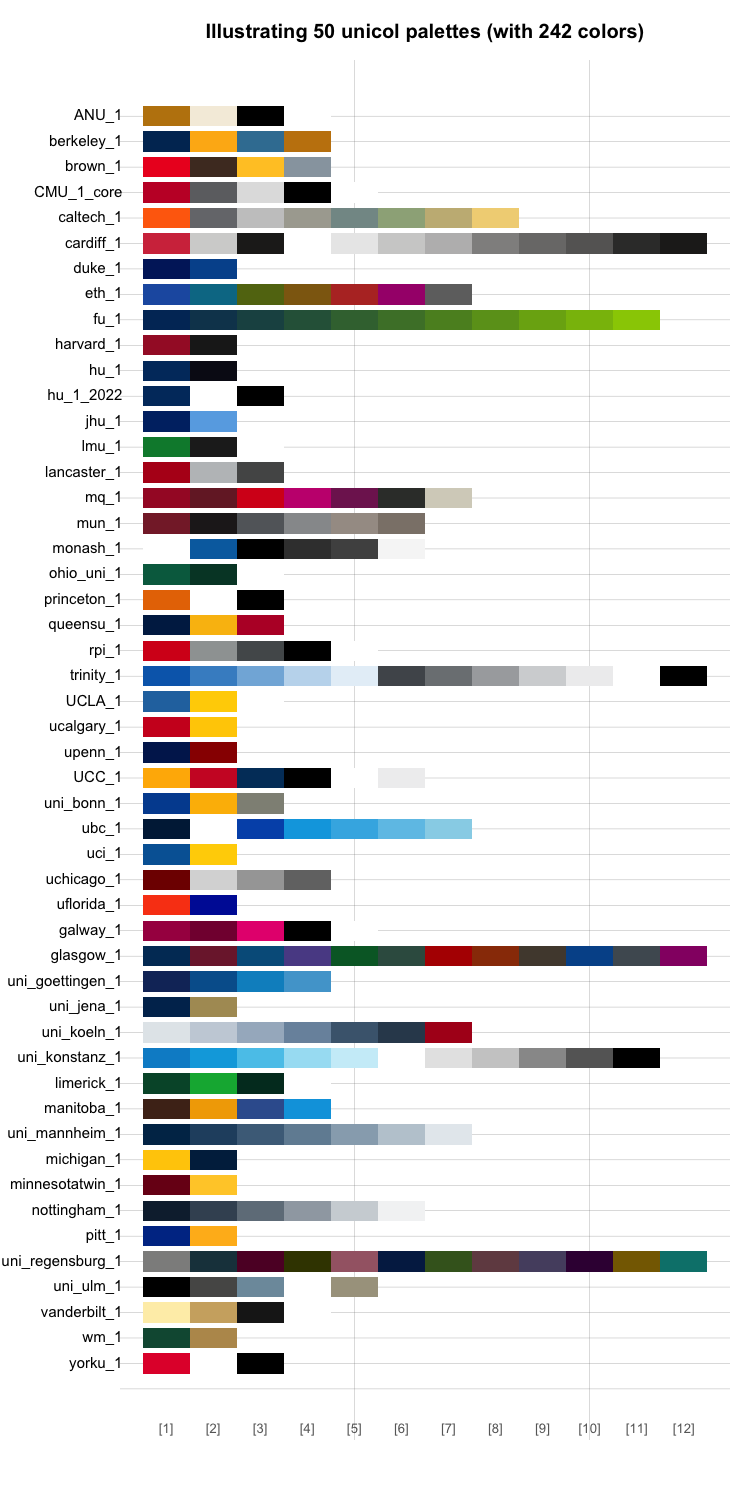
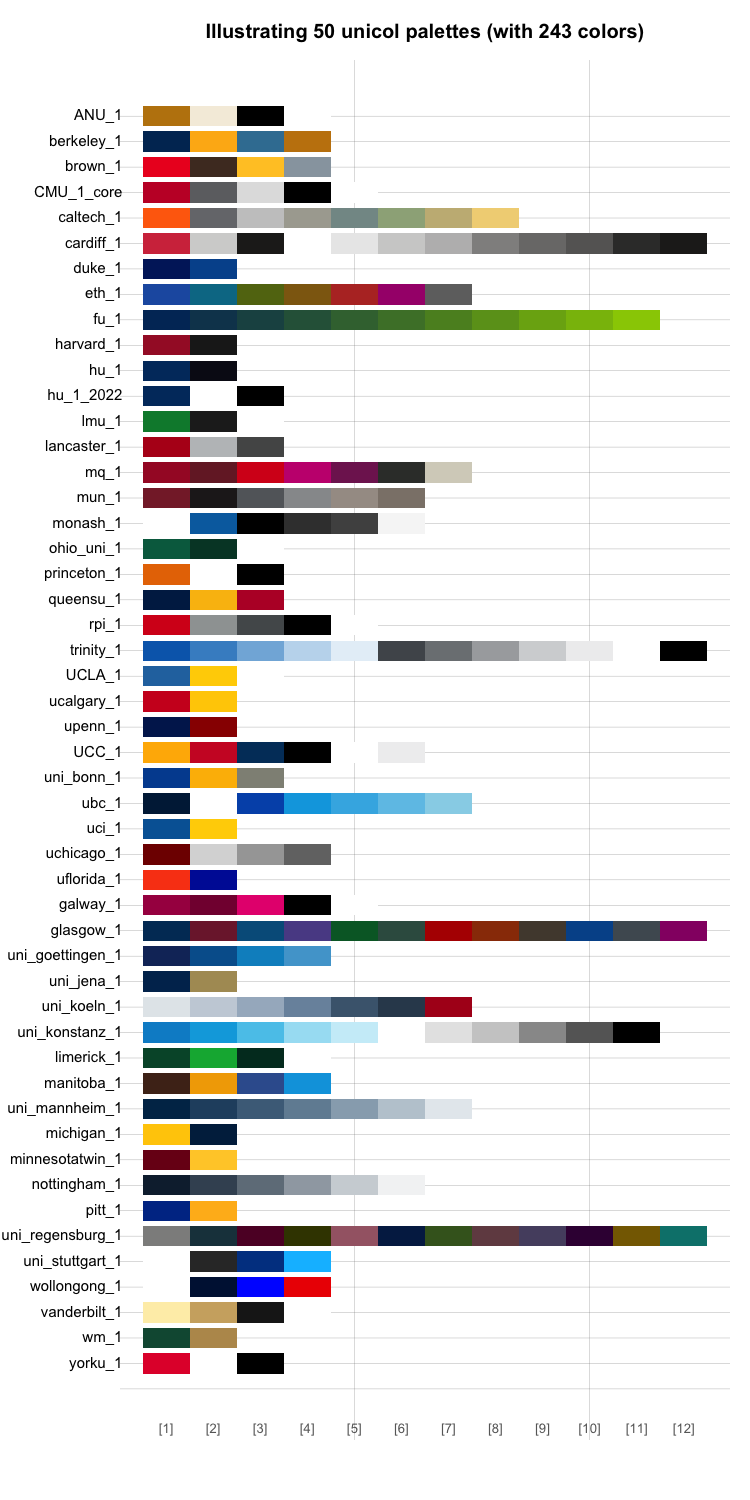
update README

Changed region(s): [[0.184, 0.276, 0.9507, 0.8893], [0.0, 0.276, 0.1533, 0.8587], [0.8587, 0.4293, 0.9507, 0.46]]

diff --git a/README.md b/README.md
@@ -21,7 +21,7 @@ status](https://www.r-pkg.org/badges/version/unicol)](https://CRAN.R-project.org
 <!-- [![DOI](https://zenodo.org/badge/DOI/10.5281/zenodo.8252106.svg)](https://doi.org/10.5281/zenodo.8252106) -->
 <!-- ALL badges end. -->
 
-# unicol 0.2.0.9001 <img src = "man/figures/logo.png" align = "right" alt = "unicol::" width = "160px" alt="" />
+# unicol 0.2.0.9002 <img src = "man/figures/logo.png" align = "right" alt = "unicol::" width = "160px" alt="" />
 
 <!-- unicol pkg logo and link: -->
 <!-- <a href = "https://CRAN.R-project.org/package=unicol"> -->
@@ -85,8 +85,8 @@ library(unikn)   # for color functions
 
 ## Contents
 
-The **unicol** package currently provides **236 color palettes** from
-**102 institutions**.
+The **unicol** package currently provides **239 color palettes** from
+**103 institutions**.
 
 <!-- **Table\ 1** provides an overview of all color palettes:  -->
 
@@ -99,18 +99,18 @@ an overview of included color palettes and institutions.)
 
 ### Examples of color palettes
 
-<!-- The **unicol** package currently contains **236\ color palettes** from **102\ institutions**.  -->
+<!-- The **unicol** package currently contains **239\ color palettes** from **103\ institutions**.  -->
 <!-- Example 1: Random pals (from vignette color_pals.Rmd): -->
 <!-- Show as a table: -->
 <!-- Show as a figure: -->
 
-**Figure 1** illustrates 50 random color palettes (with 242 colors):
+**Figure 1** illustrates 50 random color palettes (with 243 colors):
 
 <div class="figure" style="text-align: center">
 
-<img src="man/figures/README-unicol-pals-example-1-figure-1.png" alt="Figure 1: A sample of 50 unicol palettes (containing 242 colors)." width="600px" />
+<img src="man/figures/README-unicol-pals-example-1-figure-1.png" alt="Figure 1: A sample of 50 unicol palettes (containing 243 colors)." width="600px" />
 <p class="caption">
-Figure 1: A sample of 50 unicol palettes (containing 242 colors).
+Figure 1: A sample of 50 unicol palettes (containing 243 colors).
 </p>
 
 </div>
@@ -324,6 +324,6 @@ creators.
 
 <!-- Footer: -->
 
-\[File `README.Rmd` updated on 2023-09-15.\]
+\[File `README.Rmd` updated on 2023-09-19.\]
 
 <!-- eof. -->
